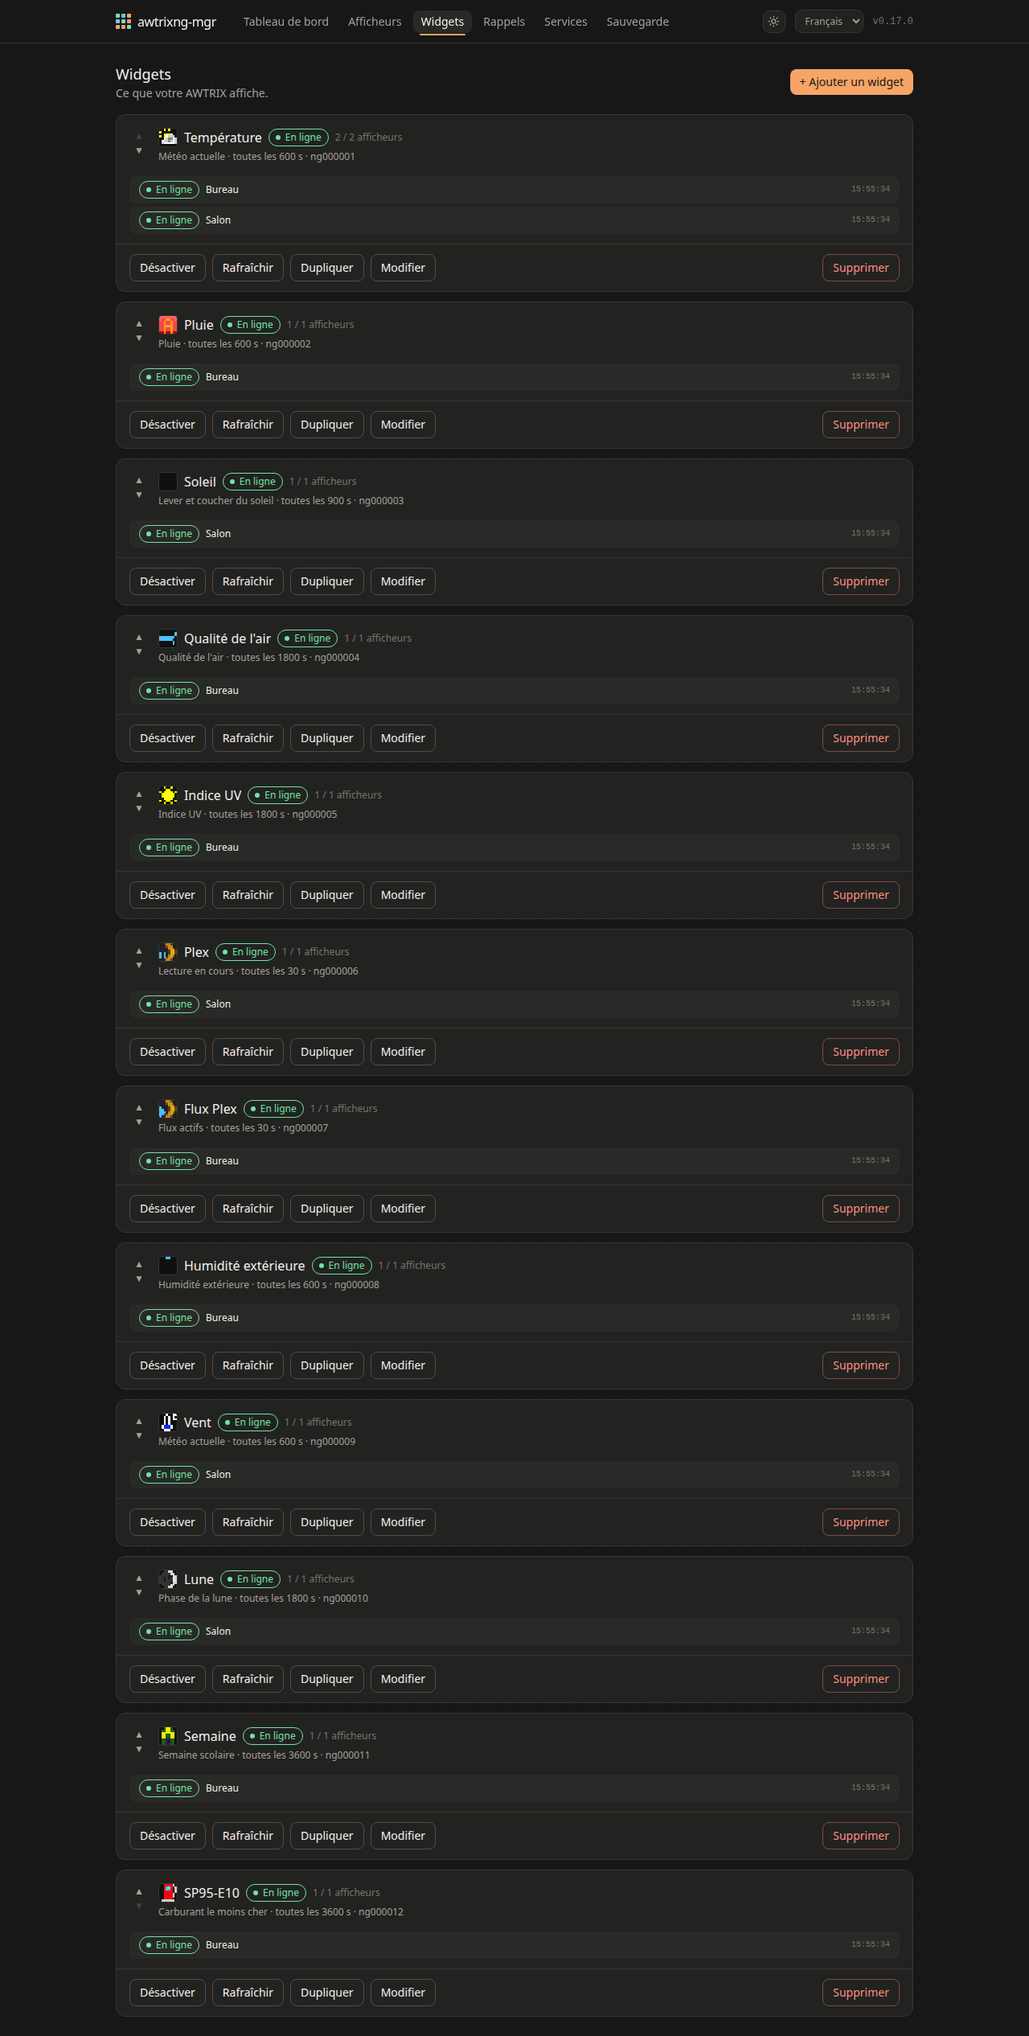
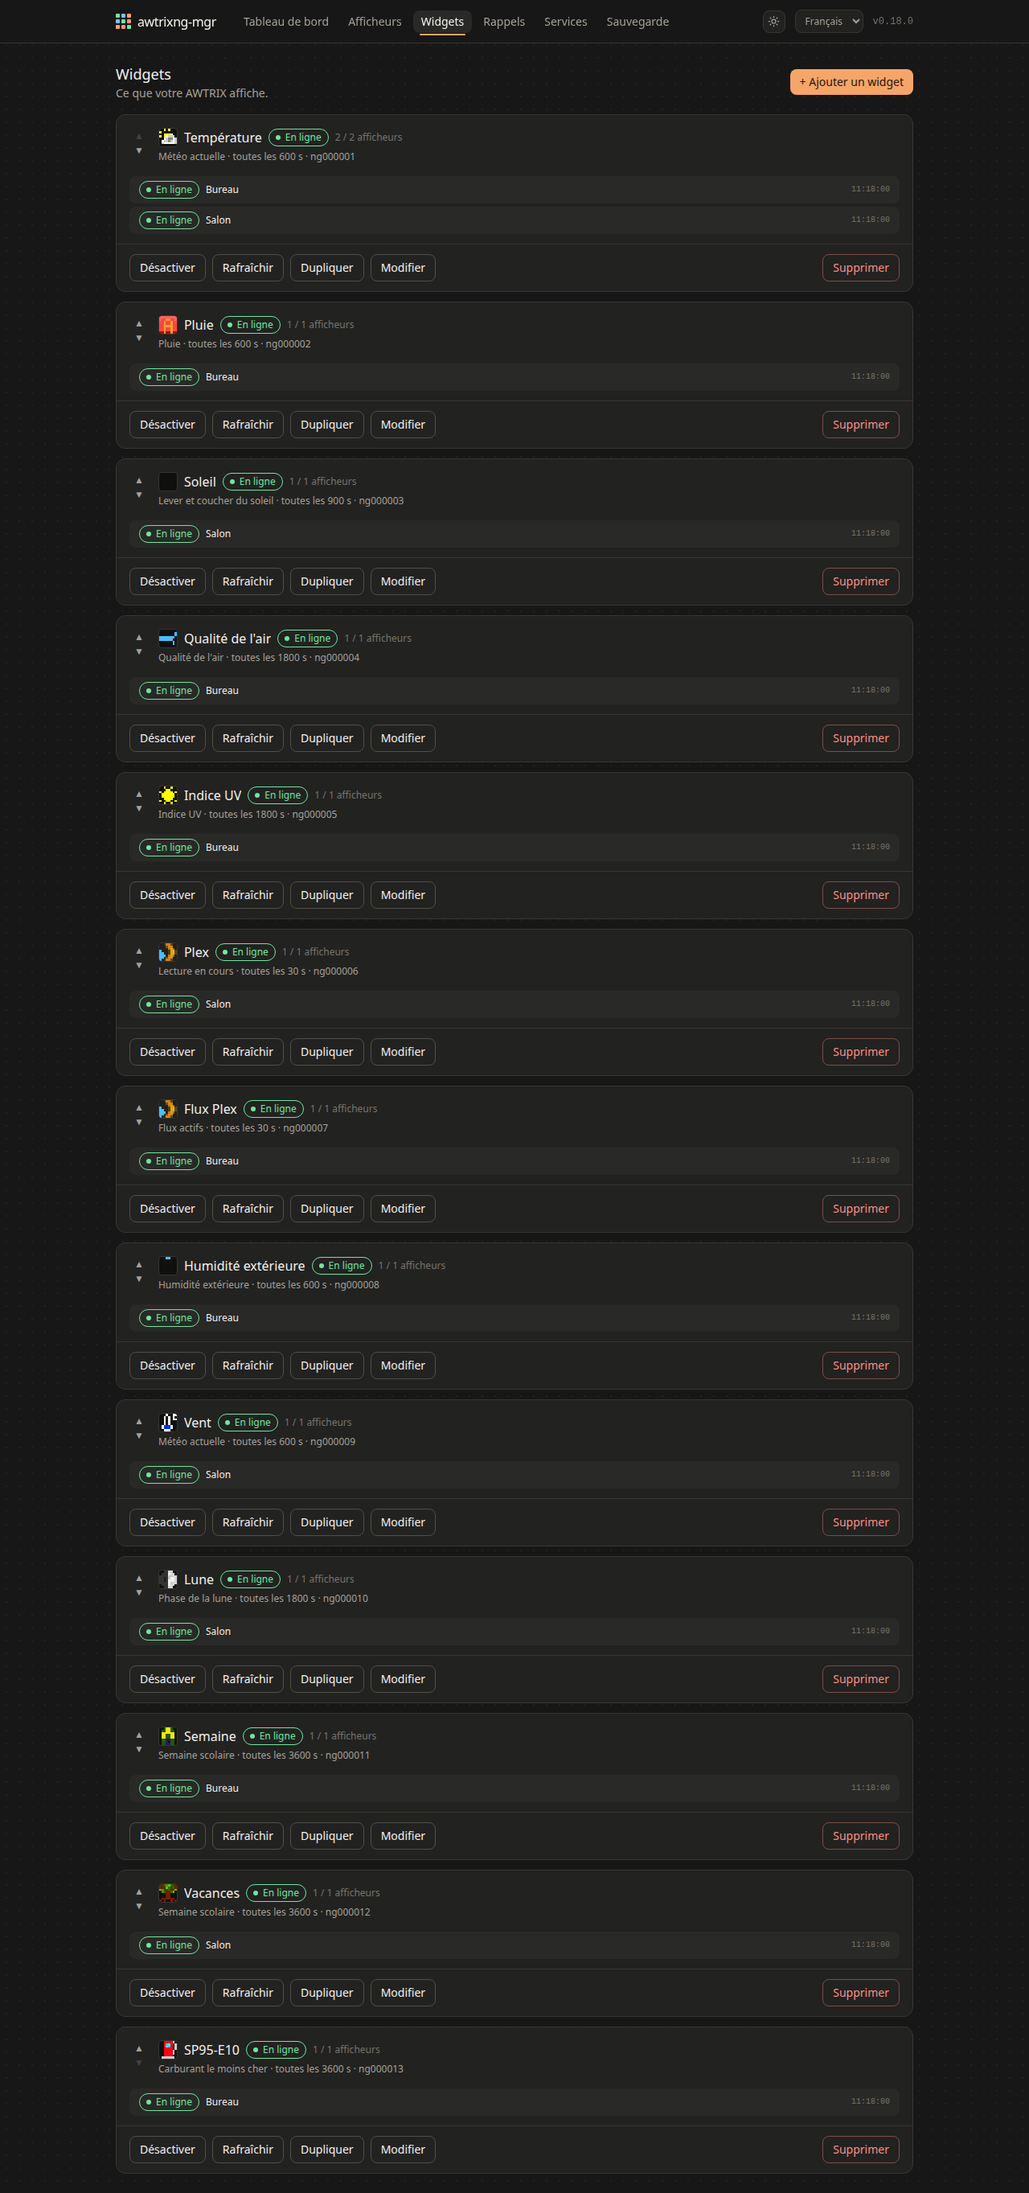
feat: un décompte qui change de saison — 0.18.0
Florian : « plutôt qu'un compteur 16j à 0, une petite animation — feuille
orangée avec du vent pour l'automne, un père Noël qui défile avec son
traîneau pour Noël ».

Rien à dessiner : la galerie en compte 71 858 et le firmware sait superposer
de la météo au texte. Un arbre qui se dépouille à la Toussaint, le traîneau
qui traverse à Noël avec de la neige par-dessus le compteur, un flocon en
hiver, un cerisier au printemps, une plage en été.

Chaque icône a été poussée sur la dalle et relue. Deux candidates y sont
tombées : une « flower evolution » qui rend en blocs blancs et rouges à huit
pixels, et un compteur sans icône, où la neige traverse un texte qui défile et
le rend moins lisible plutôt que plus joli.

Et {{ countdown }}, parce qu'un gabarit n'a pas de if. Le compte vers la
rentrée existait déjà, enfermé dans une phrase, et n'était exposé nulle part :
pendant les vacances « 63 jours avant les prochaines » est exact et sans
intérêt. Un seul gabarit dit maintenant la bonne chose toute l'année.

Deux tests sont tombés quand j'ai fait suivre la couleur à la saison, et ils
avaient raison : en classe la couleur dit la semaine A ou B, et une couleur se
lit avant un mot. L'icône et la neige suivent la saison, la couleur non — le
traîneau apparaît neuf jours avant Noël sur un J-9 resté bleu semaine A.

diff --git a/backend/app/connectors/school/connector.py b/backend/app/connectors/school/connector.py
@@ -29,6 +29,48 @@ CACHE_SECONDS = 6 * 3600
 #: "Time for school" — checked against the artwork, not picked by its name.
 ICON = "2536"
 
+#: One animated icon per holiday period, and the weather NG draws over the
+#: text for the two that have one. Florian's idea: « plutôt qu'un compteur
+#: 16j à 0, une petite animation — feuille orangée avec du vent pour
+#: l'automne, un père Noël qui défile avec son traîneau pour Noël ».
+#:
+#: Matched on the period's name because that is what the Ministry publishes,
+#: and it is stable: "Vacances de la Toussaint", "Vacances de Noël". The key
+#: is a word that cannot appear in another period's name.
+#:
+#: Every one was pushed to a TC001 and read back before being chosen. Two
+#: were rejected there: a flower that renders as white and red blocks at
+#: eight pixels, and a counter with no icon at all, where the snow falls
+#: across scrolling text and makes it harder to read rather than prettier.
+#:
+#: The overlay is the part that costs nothing: snow is drawn by the firmware,
+#: over the text, and the counter stays legible underneath — measured.
+SEASONS: dict[str, tuple[str, str | None, str]] = {
+    # mot-clé        icône    surimpression  couleur
+    "toussaint": ("70643", None, "#ff8f80"),
+    "noël": ("24817", "snow", "#79c0ff"),
+    "noel": ("24817", "snow", "#79c0ff"),
+    "hiver": ("33131", "snow", "#79c0ff"),
+    "printemps": ("40484", None, "#ff9ecb"),
+    "été": ("27253", None, "#ffb65c"),
+    "ete": ("27253", None, "#ffb65c"),
+    "ascension": ("37677", None, "#6ee7a0"),
+}
+
+
+def season_for(name: str) -> tuple[str, str | None, str] | None:
+    """The icon, overlay and colour of a named holiday period.
+
+    None for a name no release of the dataset has used yet — a period this
+    code has never heard of keeps the ordinary school icon rather than
+    borrowing the wrong season's.
+    """
+    lowered = (name or "").lower()
+    for keyword, season in SEASONS.items():
+        if keyword in lowered:
+            return season
+    return None
+
 #: The letter is the one fact this widget exists to give, and a colour is read
 #: before a word is. Cyan and violet rather than two neighbouring shades: at
 #: eight pixels, across a room, close colours are one colour.
@@ -112,6 +154,21 @@ class SchoolConnector(Connector):
                         label="Days to the next holiday",
                         example="12",
                     ),
+                    Variable(
+                        name="days_to_school",
+                        label="Days until school resumes — only during the holidays",
+                        example="16",
+                    ),
+                    Variable(
+                        name="countdown",
+                        label="Whichever of the two is the one worth showing today",
+                        example="16",
+                    ),
+                    Variable(
+                        name="season",
+                        label="The period being counted, which sets the icon",
+                        example="Vacances de Noël",
+                    ),
                 ],
                 default_display=DisplayOptions(
                     # `{{ summary }}` reads "Semaine A", which is nine
@@ -191,6 +248,7 @@ class SchoolConnector(Connector):
         semaine = cal.week_days(day, periods)
         upcoming = cal.next_holiday(periods, day)
 
+        back_in = None
         if holiday is not None:
             # Counting to the morning school resumes, which is the day after
             # the last day off.
@@ -201,6 +259,13 @@ class SchoolConnector(Connector):
         else:
             summary = _t("week", letter=letter) if letter else ""
 
+        # The season belongs to the period being counted: the one we are in
+        # during the holidays, the one we are waiting for during term. So the
+        # sleigh appears in December while school is still on, which is the
+        # point — it is the arrival being counted down to.
+        counted = holiday or upcoming
+        season = season_for(counted.name) if counted else None
+
         return WidgetData(
             values={
                 "summary": summary,
@@ -210,6 +275,19 @@ class SchoolConnector(Connector):
                 "holiday": holiday is not None,
                 "holiday_name": holiday.name if holiday else "",
                 "days_to_holiday": (upcoming.start - day).days if upcoming else None,
+                # The count that only existed inside a sentence. During the
+                # holidays "63 days to the next ones" is true and useless;
+                # what someone wants is the morning school resumes.
+                "days_to_school": back_in,
+                # The one number that is always the useful one, because a
+                # template has no `if`. During term it counts to the holidays;
+                # during the holidays it counts to the morning school resumes.
+                # `J-{{ countdown }}` therefore says the right thing all year
+                # without anybody composing two widgets.
+                "countdown": back_in if holiday is not None else (
+                    (upcoming.start - day).days if upcoming else None
+                ),
+                "season": counted.name if counted else "",
             },
             # Full on Monday morning, empty once Friday is over. During the
             # holidays there is nothing left to count down.
@@ -217,8 +295,23 @@ class SchoolConnector(Connector):
             # preview needs a figure to show beside the segments.
             progress=round(remaining / total * 100) if total else 0,
             days=semaine,
-            hint_icon=ICON,
-            hint_color=colour_for(letter, holiday=holiday is not None),
+            hint_icon=season[0] if season else ICON,
+            hint_overlay=season[1] if season else None,
+            # **The colour follows the season only during the holidays.**
+            #
+            # In term time this widget exists to say A or B, and the comment
+            # on `colour_for` is right that a colour is read before a word is.
+            # Painting it autumn-orange because Toussaint is coming destroys
+            # the one fact it is there to give. A test caught exactly that,
+            # which is what tests defending a decision are for.
+            #
+            # During the holidays there is no letter, so the season is free to
+            # take the colour too — and that is when it means something.
+            hint_color=(
+                season[2]
+                if season and holiday is not None
+                else colour_for(letter, holiday=holiday is not None)
+            ),
         )
 
     # -- Test -----------------------------------------------------------------

diff --git a/backend/tests/test_school.py b/backend/tests/test_school.py
@@ -294,3 +294,88 @@ def test_the_letter_matches_a_week_someone_actually_lived():
     assert cal.week_letter(today, rentree) == "B"
     # The option exists for schools that count the other way round.
     assert cal.week_letter(today, rentree, invert=True) == "A"
+
+
+class TestTheSeasonOfTheCountdown:
+    """Florian's idea: « plutôt qu'un compteur 16j à 0, une petite animation
+    — feuille orangée avec du vent pour l'automne, un père Noël qui défile
+    avec son traîneau pour Noël ».
+
+    Each icon was pushed to a TC001 and read back before being chosen, and two
+    candidates were rejected there: a flower that renders as white and red
+    blocks at eight pixels, and a counter with no icon, where the snow falls
+    across scrolling text and makes it harder to read rather than prettier.
+    """
+
+    def test_every_period_the_ministry_publishes_has_one(self):
+        from app.connectors.school.connector import season_for
+
+        published = [
+            "Vacances de la Toussaint",
+            "Vacances de Noël",
+            "Vacances d'Hiver",
+            "Vacances de Printemps",
+            "Vacances d'Été",
+            "Pont de l'Ascension",
+        ]
+        missing = [name for name in published if season_for(name) is None]
+        assert not missing, f"no season for: {missing}"
+
+    def test_a_period_it_has_never_heard_of_keeps_the_school_icon(self):
+        """Rather than borrowing the wrong season's. The dataset can grow a
+        name, and a sleigh on an unknown period is worse than no sleigh."""
+        from app.connectors.school.connector import season_for
+
+        assert season_for("Vacances de la Pentecôte lunaire") is None
+        assert season_for("") is None
+
+    def test_accents_do_not_decide_it(self):
+        """`Noël` and `Noel` both appear in the wild, and a missing diaeresis
+        must not cost the sleigh."""
+        from app.connectors.school.connector import season_for
+
+        assert season_for("Vacances de Noel") == season_for("Vacances de Noël")
+
+    def test_snow_falls_only_where_snow_belongs(self):
+        """The overlay is the firmware's, drawn over the text. Charming in
+        December, absurd in July."""
+        from app.connectors.school.connector import season_for
+
+        assert season_for("Vacances de Noël")[1] == "snow"
+        assert season_for("Vacances d'Hiver")[1] == "snow"
+        assert season_for("Vacances d'Été")[1] is None
+        assert season_for("Vacances de la Toussaint")[1] is None
+
+    def test_no_two_periods_share_an_icon(self):
+        """The icon is the whole point: two periods that look alike give a
+        glance nothing to go on."""
+        from app.connectors.school.connector import SEASONS
+
+        # "noel" and "noël" are one period spelt two ways, as are "ete"/"été".
+        icons = {icon for icon, _, _ in SEASONS.values()}
+        assert len(icons) == len(SEASONS) - 2
+
+
+#: Two periods, so that there is always a "next one" to count towards.
+ANNEE = holidays(
+    ("Vacances de la Toussaint", "2026-10-17", "2026-11-01"),
+    ("Vacances de Noël", "2026-12-19", "2027-01-03"),
+)
+
+
+class TestTheOneNumberWorthShowing:
+    """A template has no `if`, so a single widget cannot choose between two
+    counts — unless the connector chooses for it. `J-{{ countdown }}` then
+    says the right thing all year without anybody composing two widgets."""
+
+    def test_during_the_holidays_it_counts_to_school(self):
+        values = SchoolConnector._describe(date(2026, 10, 20), ANNEE, invert=False).values
+        assert values["days_to_school"] == 13
+        assert values["countdown"] == 13
+        assert values["days_to_holiday"] == 60, "the next holidays are still ahead"
+
+    def test_in_term_time_it_counts_to_the_holidays(self):
+        values = SchoolConnector._describe(date(2026, 12, 10), ANNEE, invert=False).values
+        assert values["days_to_holiday"] == 9
+        assert values["countdown"] == 9
+        assert values["days_to_school"] is None, "school is in, there is nothing to resume"

diff --git a/scripts/demo/seed.py b/scripts/demo/seed.py
@@ -178,6 +178,15 @@ async def seed(base: str, password: str = "") -> None:
                         "progress_color": "#3ddc84",
                         "progress_background": "#000000"},
         })
+        # Le décompte saisonnier : un gabarit, et l'icône change toute seule
+        # avec la période comptée. L'icône est laissée vide exprès, pour que
+        # le connecteur propose la sienne.
+        await _post(http, "/api/widgets", {
+            "name": "Vacances", "connector_id": ecole["id"],
+            "widget_type": "school.week", "device_ids": [salon["id"]],
+            "refresh_seconds": 3600,
+            "display": {"text": "J-{{ countdown }}", "duration": 8, "font": "large"},
+        })
         # A reminder, which is not a widget: it interrupts at a set time
         # rather than taking its turn in the rotation.
         await _post(http, "/api/reminders", {

diff --git a/backend/app/__init__.py b/backend/app/__init__.py
@@ -1,1 +1,1 @@
-__version__ = "0.17.3"
+__version__ = "0.18.0"

diff --git a/docs/manuel/Widget-Ecole.md b/docs/manuel/Widget-Ecole.md
@@ -1,0 +1,67 @@
+# Calendrier scolaire
+
+Semaine A ou B, les jours restants, et un décompte qui change de saison.
+
+Les dates viennent des **données ouvertes du Ministère**, pas de dates saisies
+à la main : un calendrier tapé une fois est faux l'année suivante. Les jours
+fériés, eux, sont calculés — le jeu de données ne les porte pas, et sans eux
+« 3 jours restants » est faux le 11 novembre.
+
+## La semaine
+
+L'alternance A/B court **à travers** les vacances plutôt que de s'y
+interrompre, ce qui est la règle de l'Éducation nationale. Certains
+établissements comptent à l'envers ; une case inverse l'alternance.
+
+La couleur dit la semaine : **cyan pour A, violet pour B**. Deux teintes
+franchement différentes, parce qu'à huit pixels et à travers une pièce, deux
+nuances voisines sont une seule couleur.
+
+## Le décompte, et sa saison
+
+```
+J-{{ countdown }}
+```
+
+Un gabarit n'a pas de condition, alors `{{ countdown }}` choisit pour vous :
+
+- **en période scolaire**, il compte jusqu'aux prochaines vacances ;
+- **pendant les vacances**, jusqu'au matin de la rentrée.
+
+C'est toujours le nombre qu'on veut voir. Les deux restent disponibles
+séparément : `{{ days_to_holiday }}` et `{{ days_to_school }}`.
+
+### L'icône annonce la période comptée
+
+| période | icône | surimpression |
+|---|---|---|
+| Toussaint | un arbre qui se dépouille | — |
+| Noël | le traîneau du père Noël qui traverse | **neige** |
+| Hiver | un flocon | **neige** |
+| Printemps | un cerisier en fleurs | — |
+| Été | une plage | — |
+
+La surimpression est dessinée par le firmware **par-dessus** le texte : il
+neige sur votre compteur en décembre, et le chiffre reste lisible dessous.
+
+**L'icône annonce ce qui vient, même en classe.** Le traîneau apparaît neuf
+jours avant les vacances de Noël, parce que c'est l'arrivée qu'on décompte.
+
+**La couleur, elle, ne suit la saison que pendant les vacances.** En période
+scolaire elle dit la semaine A ou B, qui est la raison d'être de ce widget :
+la repeindre aux couleurs de l'automne détruirait la seule information qu'on
+lit d'un coup d'œil.
+
+### Les variables
+
+`{{ countdown }}` le bon décompte · `{{ days_to_holiday }}` ·
+`{{ days_to_school }}` · `{{ week }}` la lettre · `{{ summary }}` une phrase
+toute faite · `{{ days_left }}` jours de classe restants cette semaine ·
+`{{ school_days }}` · `{{ holiday }}` · `{{ holiday_name }}` ·
+`{{ season }}` la période comptée
+
+## La barre des sept jours
+
+À la place d'une barre de progression, le widget peut dessiner **un segment
+par jour de la semaine** — la même forme que l'horloge dessine sous son app
+Date. Une barre à 60 % ne dit pas *quels* jours restent ; sept segments si.

diff --git a/CHANGELOG.md b/CHANGELOG.md
@@ -5,6 +5,57 @@ numérotation la règle décrite dans le [README](README.md#versions).
 
 ## [Non publié]
 
+## [0.18.0]
+
+### Un décompte qui change de saison
+
+Florian : « plutôt qu'un compteur 16j à 0, je suis d'avis d'avoir une petite
+animation — feuille orangée avec du vent pour les vacances d'automne, un père
+Noël qui défile avec son traîneau pour Noël ».
+
+Il n'a pas fallu dessiner : la galerie LaMetric en compte 71 858, et le
+firmware sait déjà superposer de la météo au texte.
+
+| période | icône | surimpression |
+|---|---|---|
+| Toussaint | un arbre qui se dépouille | — |
+| Noël | le traîneau qui traverse | **neige** |
+| Hiver | un flocon | **neige** |
+| Printemps | un cerisier en fleurs | — |
+| Été | une plage | — |
+
+Chacune a été poussée sur une TC001 et relue. **Deux candidates y sont
+tombées** : une « flower evolution » qui rend en blocs blancs et rouges à huit
+pixels, et un compteur sans icône, où la neige traverse un texte qui défile et
+le rend moins lisible plutôt que plus joli.
+
+La surimpression est la bonne surprise : elle est native, elle ne coûte rien,
+et le chiffre reste lisible dessous — mesuré.
+
+### `{{ countdown }}`, parce qu'un gabarit n'a pas de `if`
+
+Le compte vers la rentrée existait déjà — il alimentait la phrase
+`{{ summary }}` — mais **n'était exposé nulle part**. Pendant les vacances,
+« 63 jours avant les prochaines » est exact et sans intérêt ; ce qu'on veut
+savoir, c'est quand on rentre.
+
+`{{ countdown }}` choisit : vers les vacances en classe, vers la rentrée en
+vacances. Un seul gabarit, `J-{{ countdown }}`, dit la bonne chose toute
+l'année. Les deux comptes restent disponibles séparément.
+
+### Et un test a défendu une décision que j'allais casser
+
+J'avais fait suivre la **couleur** à la saison. Deux tests sont tombés, et ils
+avaient raison : en période scolaire la couleur dit la semaine A ou B, et le
+commentaire de `colour_for` dit pourquoi — une couleur se lit avant un mot.
+Repeindre le widget aux couleurs de l'automne parce que la Toussaint approche
+détruisait la seule information qu'il existe pour donner.
+
+Donc l'icône et la neige suivent la saison ; la couleur ne la suit que pendant
+les vacances, quand il n'y a plus de lettre. Le traîneau apparaît neuf jours
+avant Noël sur un **J-9 resté bleu semaine A**.
+
+
 ## [0.17.3]
 
 ### Tout widget neuf s'appelait « Current weather »

diff --git a/README.fr.md b/README.fr.md
@@ -88,7 +88,7 @@ Dans [`docs/manuel/`](docs/manuel/README.md) :
 
 - [Démarrage](docs/manuel/Demarrage.md) — de l'horloge nue au premier widget
 - [Widgets](docs/manuel/Widgets.md) — les options d'affichage en détail
-- [Météo](docs/manuel/Widget-Meteo.md) · [Carburants](docs/manuel/Widget-Carburants.md) · [Plex](docs/manuel/Widget-Plex.md)
+- [Météo](docs/manuel/Widget-Meteo.md) · [Carburants](docs/manuel/Widget-Carburants.md) · [Plex](docs/manuel/Widget-Plex.md) · [École](docs/manuel/Widget-Ecole.md)
 - [Rappels](docs/manuel/Rappels.md) — messages à heure fixe
 - [Afficheurs](docs/manuel/Afficheurs.md) — régler l'horloge elle-même
 - [Sécurité](docs/manuel/Securite.md) · [Sauvegarde et maintenance](docs/manuel/Maintenance.md)

diff --git a/README.md b/README.md
@@ -89,6 +89,7 @@ enough in a browser.
 - [Getting started](docs/manuel/Demarrage.md) — from a bare clock to a first widget
 - [Widgets](docs/manuel/Widgets.md) — the display options in detail
 - [Plex via Tautulli](docs/manuel/Widget-Plex.md) — now playing, and why titles do not fit
+- [School calendar](docs/manuel/Widget-Ecole.md) — A/B weeks, and a countdown that changes season
 - [Reminders](docs/manuel/Rappels.md) · [Displays](docs/manuel/Afficheurs.md)
 - [Security](docs/manuel/Securite.md) · [Backup and maintenance](docs/manuel/Maintenance.md)
 - [Troubleshooting](docs/manuel/Depannage.md) — the symptoms that point at nothing

diff --git a/docs/manuel/README.md b/docs/manuel/README.md
@@ -46,3 +46,4 @@ risque rien, mais elle ne marchera pas. Pour celles-là, l'ancêtre
 Le projet précédent reste en service.
 
 - [Plex, par Tautulli](Widget-Plex.md) — lecture en cours et flux actifs
+- [Calendrier scolaire](Widget-Ecole.md) — semaine A/B, et un décompte qui change de saison
